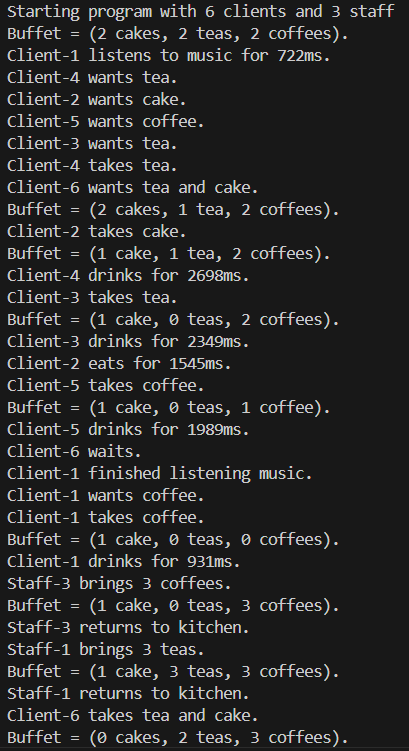
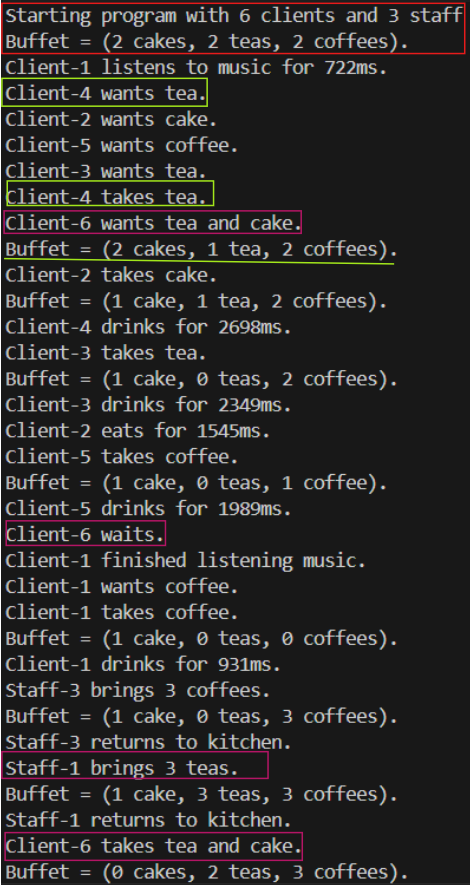
adds explantion of the output to the report

Changed region(s): [[0.0, 0.0, 0.9976, 1.0]]

diff --git a/Coursework1/README.md b/Coursework1/README.md
@@ -8,7 +8,7 @@ UB Number: 25029204
 
 > Explain the concept of interference in concurrent systems and provide an example of how it could occur within the context of this scenario.
 
-In concurrent systems, interference occurs when multiple threads access shared resources without proper synchronization, causing unexpected or incorrect results. Consequently, the outcome can suffer from interference when different processes try to read and write the same resource, manipulating it wrongly and overwriting data. For example, in Betty's Café, if two customers try to order the last slice of cake at the same time, without proper synchronization, both customers might end up being served the same slice, leading to a conflict and an incorrect output of the system. Technically speaking, the shared resource (the last slice of cake) is accessed by multiple threads (the customers) without proper coordination, resulting in an inconsistent state. 
+In concurrent systems, interference occurs when multiple threads access shared resources without proper synchronization, causing unexpected or incorrect results. In other words, the outcome can suffer from interference when different processes try to read and write the same resource, manipulating it wrongly and overwriting data. For example, in Betty's Café, if two customers try to order the last slice of cake at the same time, without proper synchronization, both customers might end up being served the same slice, leading to a conflict and an incorrect output of the system. Technically speaking, the shared resource (the last slice of cake) is accessed by multiple threads (the customers) without proper coordination, resulting in an inconsistent state. 
 
 ## Question 2
 
@@ -68,4 +68,20 @@ In conclusion, overall, this design ensures safety (mutual exclusion) and livene
 ## Example of simulation output
 
 ![output-example](../images/CW1-output-example.png)
+
+![output-example](../images/CW1-output-piano.png)
+
+With this output, is it possible to see that the café session starts with 6 clients and 3 staff members. The buffet is initiated with 2 cakes, 2 teas, and 2 coffees. 
+
+Customers are listening to music, ordering items, some are playing the piano, and staff are adding items to the buffet. 
+
+Looking carefully, it is possible to see that the 4th line shows that the first costumer to order an item is Customer 4, who wants tea. Others costumers make their orders as well, but the first customer to succeed is Customer 4, as shown in line 8. Then, the buffet is updated and logged in line 9, that shows the buffet with one less tea. 
+
+The cafe behaviour continues. A important point to notice is that when it is the turn of Customer 6 to take a tea and a cake, the buffet has none tea left, so the customer waits until staff member 1 (line 21) adds more teas to the buffet, as shown in line 30. Then, the customer can finally take the tea and cake, as shown in line 33.
+
+![output-example](../images/CW1-output-session-ended.png)
+
+Finally, the café session ends, as shown in the final output. The buffet is closed and all threads are interrupted, so the program shuts down cleanly.
+
+### References
 
